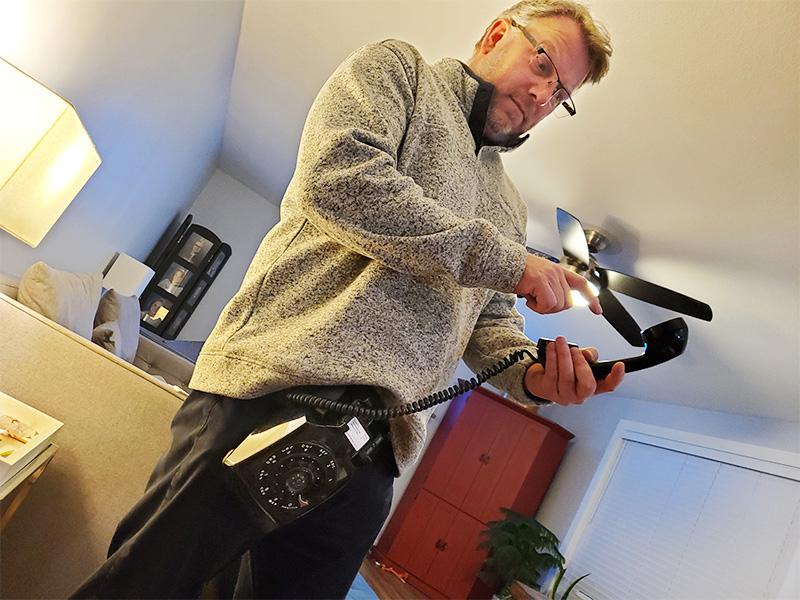
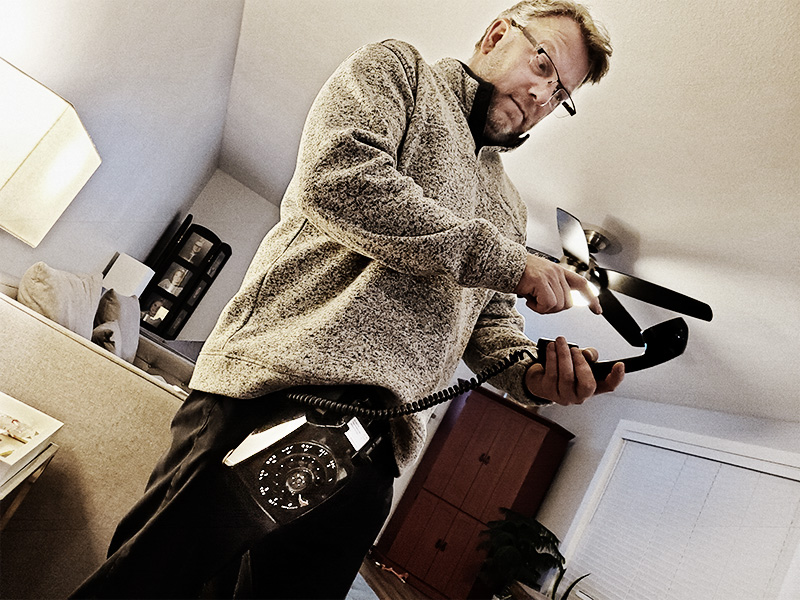
edits for look n feel, addition of new photos

diff --git a/index.html b/index.html
@@ -109,30 +109,30 @@
 
       <div class="grid_4">
         <div class="box">
-          <a href="images/big7.jpg" class="gall_item"><img src="images/page3_img7.jpg" alt=""><span></span></a>
+          <a href="images/07_brucec_big.jpg" class="gall_item"><img src="images/07_brucec_sm.jpg" alt=""><span></span></a>
           <div class="box_bot">
-            <div class="box_bot_title">Photo title</div>
-            <p>Dorem ipsum dolor sit amet, consectetur adipiscing elit. In mollis erat mattis neque facilisis, sit amet ultricies erat rutrum. Cras facilisis, nulla vel viverra auctor, leo magna sodales felis, quis malesuada nibh odio ut velit</p>
+            <div class="box_bot_title">Bruce</div>
+            <p>Need a caption.</p>
           </div>
         </div>
       </div>
 
       <div class="grid_4">
         <div class="box">
-          <a href="images/big8.jpg" class="gall_item"><img src="images/page3_img8.jpg" alt=""><span></span></a>
+          <a href="images/08_kyle-big.jpg" class="gall_item"><img src="images/08_kyle-sm.jpg" alt=""><span></span></a>
           <div class="box_bot">
-            <div class="box_bot_title">Photo title</div>
-            <p>Dorem ipsum dolor sit amet, consectetur adipiscing elit. In mollis erat mattis neque facilisis, sit amet ultricies erat rutrum. Cras facilisis, nulla vel viverra auctor, leo magna sodales felis, quis malesuada nibh odio ut velit</p>
+            <div class="box_bot_title">Kyle</div>
+            <p>Struggling with a lack of SEARCH function....</p>
           </div>
         </div>
       </div>
 
       <div class="grid_4">
         <div class="box">
-          <a href="images/big9.jpg" class="gall_item"><img src="images/page3_img9.jpg" alt=""><span></span></a>
+          <a href="images/09_jim-big.jpg" class="gall_item"><img src="images/09_jim-sm.jpg" alt=""><span></span></a>
           <div class="box_bot">
-            <div class="box_bot_title">Photo title</div>
-            <p>Dorem ipsum dolor sit amet, consectetur adipiscing elit. In mollis erat mattis neque facilisis, sit amet ultricies erat rutrum. Cras facilisis, nulla vel viverra auctor, leo magna sodales felis, quis malesuada nibh odio ut velit</p>
+            <div class="box_bot_title">Jim</div>
+            <p>Master of <span style="text-decoration: line-through;">Blue</span>Redbeam Revu!</p>
           </div>
         </div>
       </div>
@@ -193,27 +193,27 @@
           <a href="images/06_joanna-big.jpg" class="gall_item"><img src="images/06_joanna-sm.jpg" alt=""><span></span></a>
           <div class="box_bot">
             <div class="box_bot_title">Joanna</div>
-            <p>Joanna's kids found this weird old machine and some odd plastic boxes in sleeves and built a vacation home for their dolls and Lego cars!</p>
+            <p>My kids found this weird old machine and some odd plastic boxes in sleeves and built a vacation home for their dolls and Lego cars!</p>
           </div>
         </div>
       </div>
 
       <div class="grid_4">
         <div class="box">
-          <a href="images/big7.jpg" class="gall_item"><img src="images/page3_img7.jpg" alt=""><span></span></a>
+          <a href="images/10-rebecca_big.jpg" class="gall_item"><img src="images/10-rebecca_sm.jpg" alt=""><span></span></a>
           <div class="box_bot">
-            <div class="box_bot_title">Photo title</div>
-            <p>Dorem ipsum dolor sit amet, consectetur adipiscing elit. In mollis erat mattis neque facilisis, sit amet ultricies erat rutrum. Cras facilisis, nulla vel viverra auctor, leo magna sodales felis, quis malesuada nibh odio ut velit</p>
+            <div class="box_bot_title">Rebecca</div>
+            <p>Wouldn't ya know....!! [Need a caption!]</p>
           </div>
         </div>
       </div>
 
       <div class="grid_4">
         <div class="box">
-          <a href="images/big8.jpg" class="gall_item"><img src="images/page3_img8.jpg" alt=""><span></span></a>
+          <a href="images/11_megan-tina-big.jpg" class="gall_item"><img src="images/11_megan-tina-sm.jpg" alt=""><span></span></a>
           <div class="box_bot">
-            <div class="box_bot_title">Photo title</div>
-            <p>Dorem ipsum dolor sit amet, consectetur adipiscing elit. In mollis erat mattis neque facilisis, sit amet ultricies erat rutrum. Cras facilisis, nulla vel viverra auctor, leo magna sodales felis, quis malesuada nibh odio ut velit</p>
+            <div class="box_bot_title">Megan and Tina</div>
+            <p>"Our memory is TERRIBLE!"</p>
           </div>
         </div>
       </div>
